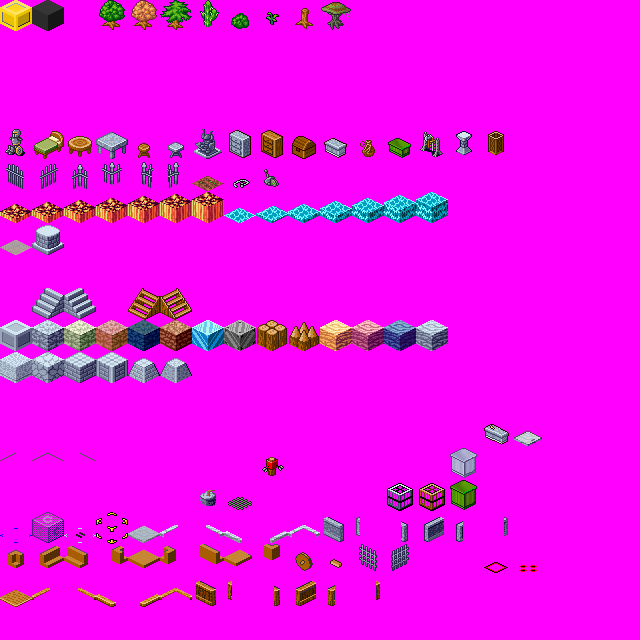
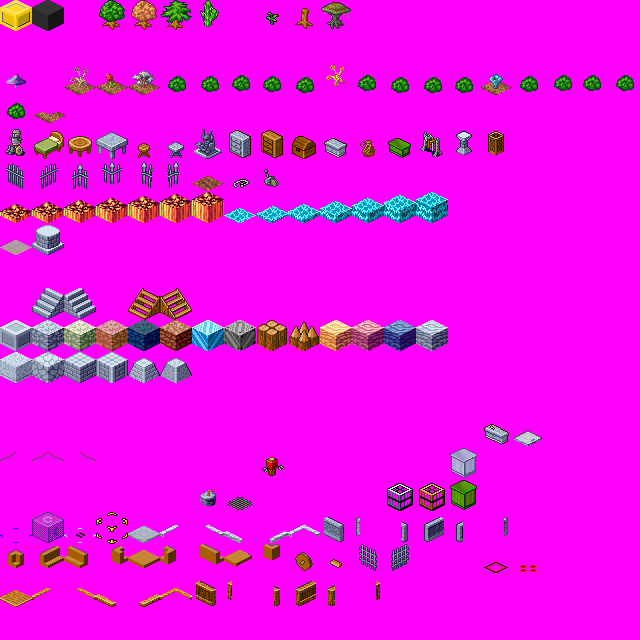
Fixed so shops point to the new location of pillars. Added all default DF shrubs.
git-svn-id: http://stonesense.googlecode.com/svn/trunk@299 4d48de78-bd66-11de-9616-7b1d4728551e

diff --git a/SpriteMaps.h b/SpriteMaps.h
@@ -34,17 +34,33 @@ enum enumFloorSprites{
   SPRITEOBJECT_TREE_MAPLE = 4,
   SPRITEOBJECT_TREE_CONIFER = 5,
   SPRITEOBJECT_CACTUS = 6,
-	SPRITEOBJECT_SHRUB = 7,
+
   SPRITEOBJECT_SAPLING = 8,
   SPRITEOBJECT_DEAD_TREE = 9,
   SPRITEOBJECT_TREE_TOWERCAP = 10,
 	
-	SPRITEOBJECT_DOORROCK = 40,
-	SPRITEOBJECT_DOORWOOD = 41,
-  SPRITEOBJECT_DOORWOOD_WILLOW = 42,
-  SPRITEOBJECT_DOORROCK_MIR = 43,
-	SPRITEOBJECT_DOORWOOD_MIR = 44,
-  SPRITEOBJECT_DOORWOOD_WILLOW_MIR = 45,
+  
+  SPRITEOBJECT_SHRUB_PLUMP = 40,
+  SPRITEOBJECT_SHRUB_PIGTAIL = 41,
+  SPRITEOBJECT_SHRUB_CAVEWHEAT = 42,
+  SPRITEOBJECT_SHRUB_SWEETPOD = 43,
+  SPRITEOBJECT_SHRUB_QUARRYBUSH = 44,
+  SPRITEOBJECT_SHRUB_MUCKROOT = 45,
+  SPRITEOBJECT_SHRUB_BLOATEDTUBER = 46,
+  SPRITEOBJECT_SHRUB_KOBOLDBLUB = 47,
+  SPRITEOBJECT_SHRUB_PRICKLEBERRIES = 48,
+  SPRITEOBJECT_SHRUB_WILDSTRAWBERRIES = 49,
+  SPRITEOBJECT_SHRUB_VALLYHERB = 50,
+  SPRITEOBJECT_SHRUB_RATWEED = 51,
+  SPRITEOBJECT_SHRUB_FISHERBERRIES = 52,
+  SPRITEOBJECT_SHRUB_ROPEREED = 53,
+  SPRITEOBJECT_SHRUB_DIMPLECUP = 54,
+  SPRITEOBJECT_SHRUB_BLADEWEED = 56,
+  SPRITEOBJECT_SHRUB_HIDEROOT = 57,
+  SPRITEOBJECT_SHRUB_BARBSILVER = 58,
+  SPRITEOBJECT_SHRUB_SUNBERRY = 59,
+  SPRITEOBJECT_SHRUB_WHINEWHIP = 60,
+
 
   SPRITEOBJECT_ARMORSTAND = 80,
   SPRITEOBJECT_BED_WOOD = 81,

diff --git a/SpriteMaps.cpp b/SpriteMaps.cpp
@@ -639,7 +639,14 @@ int GetSpriteVegitation( VegetationType type, int index){
     break;
   case SHRUB_DEAD:
   case SHRUB_OK:
-    return SPRITEOBJECT_SHRUB;
+    /*switch( index ){
+    case 0:
+      return SPRITEOBJECT_SHRUB_PLUMP;
+      break;
+      
+    };
+    return SPRITEOBJECT_SHRUB_DEFAULT;*/
+    return SPRITEOBJECT_SHRUB_PLUMP + index;
     break;
   case SAPLING_DEAD:
   case SAPLING_OK:
@@ -647,9 +654,6 @@ int GetSpriteVegitation( VegetationType type, int index){
     break;
 
   }
-
-
-
   return SPRITEOBJECT_BLUEPRINT;
 }
 
